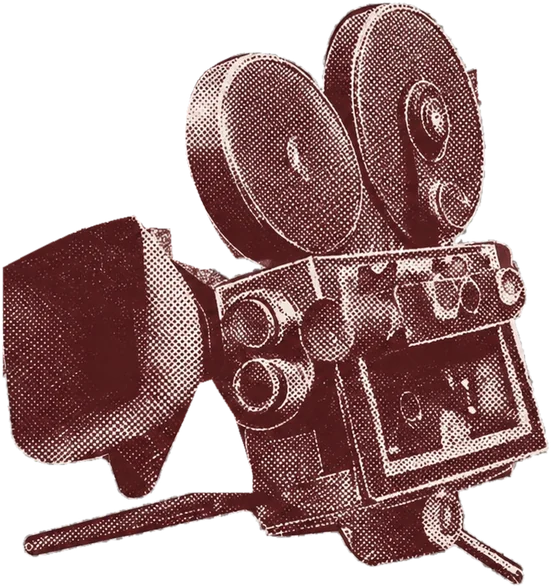
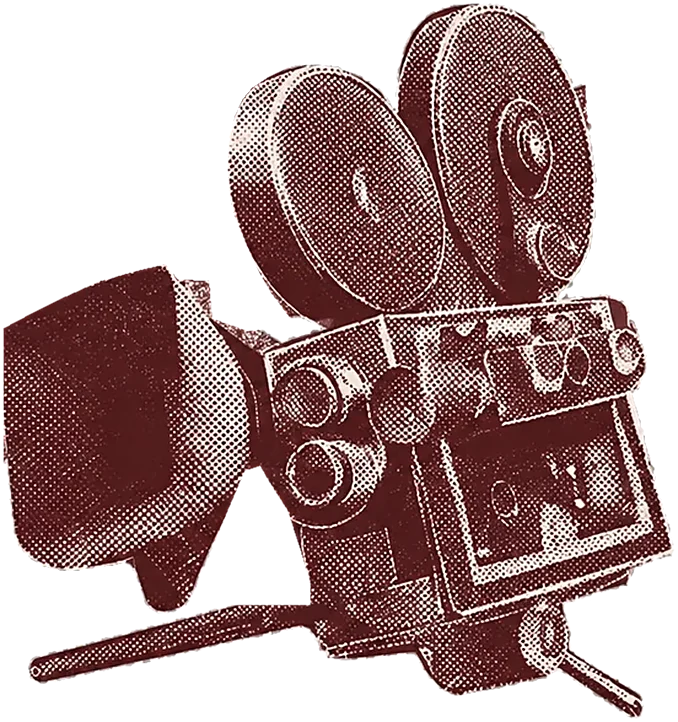
Opening page layers at full high-density resolution

diff --git a/frontend/index.html b/frontend/index.html
@@ -38,11 +38,11 @@
       <h1 class="sr-only">Stagehand</h1>
       <div class="collage" id="collage">
         <div class="collage-art" id="collage-art">
-          <img class="cl cl-staff" src="img/home/staff.webp" alt="" width="2172" height="294" style="transform:matrix(0.60851,-0.03404,0.03402,0.60817,251.8,85.8)" aria-hidden="true" decoding="async">
-          <img class="cl cl-staff" src="img/home/staff.webp" alt="" width="2172" height="294" style="transform:matrix(0.60845,0.03501,-0.03499,0.60811,-102.4,423.5)" aria-hidden="true" decoding="async">
+          <img class="cl cl-staff" src="img/home/staff.webp" alt="" width="2172" height="294" style="transform:matrix(0.60851,-0.03404,0.03402,0.60817,251.8,85.8);width:2172px;height:294px" aria-hidden="true" decoding="async">
+          <img class="cl cl-staff" src="img/home/staff.webp" alt="" width="2172" height="294" style="transform:matrix(0.60845,0.03501,-0.03499,0.60811,-102.4,423.5);width:2172px;height:294px" aria-hidden="true" decoding="async">
           <button type="button" class="cl cl-hit cl-record-hit" id="hero-record" aria-label="Play a chord in a real room" style="transform:matrix(1.09337,0.0,-0.0,1.09343,0.0,-23.2);width:1247px;height:784px"><img class="cl-img cl-record" src="img/home/record.webp" alt="" width="1247" height="784" decoding="async"></button>
-          <img class="cl cl-gramophone" src="img/home/gramophone.webp" alt="" width="577" height="811" style="transform:matrix(0.58921,0.1761,-0.17594,0.5887,1217.5,334.8)" aria-hidden="true" decoding="async">
-          <img class="cl cl-camera" src="img/home/camera.webp" alt="" width="552" height="588" style="transform:matrix(0.57007,-0.17015,0.17031,0.5706,1110.1,-8.3)" aria-hidden="true" decoding="async">
+          <img class="cl cl-gramophone" src="img/home/gramophone.webp" alt="" width="577" height="811" style="transform:matrix(0.58921,0.1761,-0.17594,0.5887,1217.5,334.8);width:577px;height:811px" aria-hidden="true" decoding="async">
+          <img class="cl cl-camera" src="img/home/camera.webp" alt="" width="552" height="588" style="transform:matrix(0.57007,-0.17015,0.17031,0.5706,1110.1,-8.3);width:552px;height:588px" aria-hidden="true" decoding="async">
           <a class="cl cl-hit" href="#/search" id="hero-cta" aria-label="Stagehand. Find your space" style="transform:matrix(1.39355,0.0,-0.0,1.39437,291.9,248.9);width:723px;height:216px"><img class="cl-img cl-logo" src="img/home/logo.webp" alt="" width="723" height="216" decoding="async"></a>
         </div>
       </div>

diff --git a/frontend/styles.css b/frontend/styles.css
@@ -1164,7 +1164,7 @@ body[data-view="walk3d"] .view[data-view="walk3d"] { display: block; }
   background: #3a1517 url("img/home/paper.jpg") center / cover no-repeat; }
 .collage-art { position: absolute; left: 0; top: 0; width: 1440px; height: 810px; transform-origin: 0 0; }
 .collage .cl { position: absolute; left: 0; top: 0; transform-origin: 0 0; max-width: none; }
-.collage img.cl { width: auto; height: auto; }
+.collage img.cl { max-height: none; }
 .collage .cl-img { display: block; width: 100%; height: 100%; max-width: none; pointer-events: none; }
 .collage .cl-hit { padding: 0; border: 0; background: none; cursor: pointer; }
 .collage .cl-staff { opacity: 0.92; }
